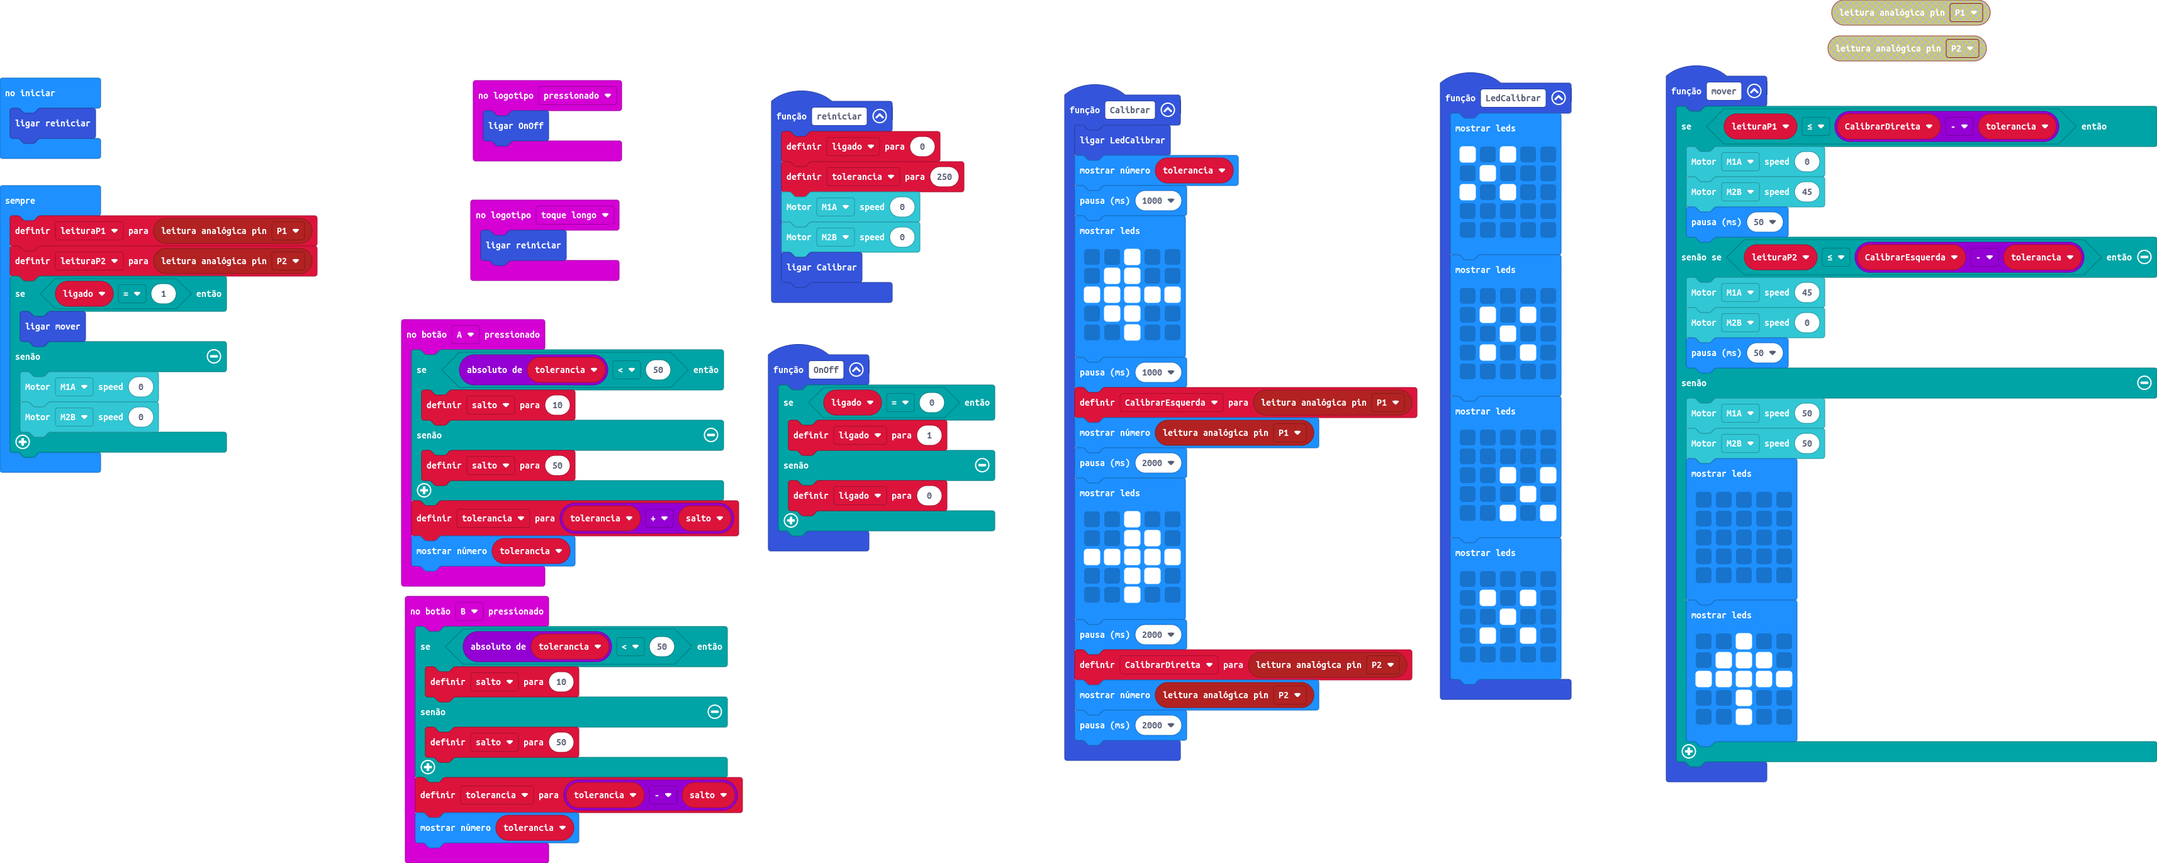
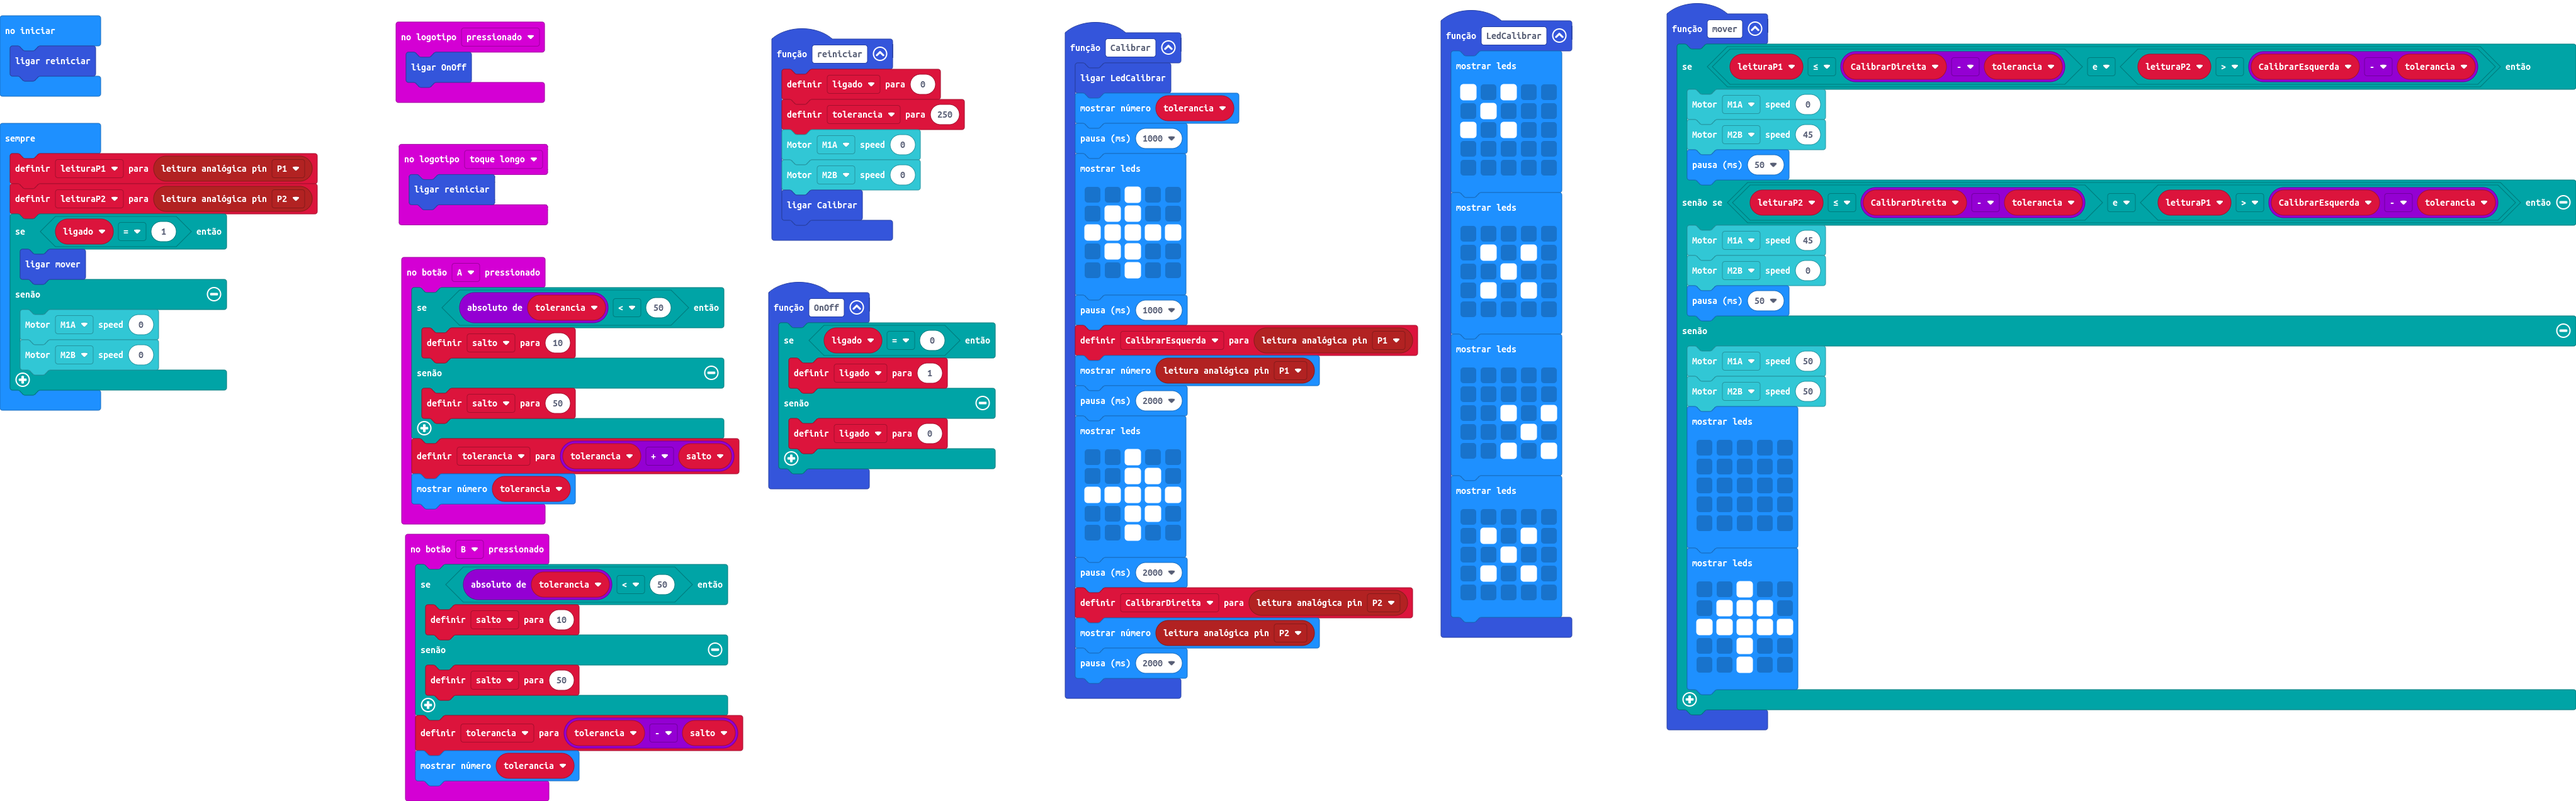
Atualizar 'main.blocks, main.ts'

diff --git a/main.ts b/main.ts
@@ -80,11 +80,11 @@ input.onButtonPressed(Button.B, function () {
     basic.showNumber(tolerancia)
 })
 function mover () {
-    if (leituraP1 <= CalibrarDireita - tolerancia) {
+    if (leituraP1 <= CalibrarDireita - tolerancia && leituraP2 > CalibrarEsquerda - tolerancia) {
         robotbit.MotorRun(robotbit.Motors.M1A, 0)
         robotbit.MotorRun(robotbit.Motors.M2B, 45)
         basic.pause(50)
-    } else if (leituraP2 <= CalibrarEsquerda - tolerancia) {
+    } else if (leituraP2 <= CalibrarDireita - tolerancia && leituraP1 > CalibrarEsquerda - tolerancia) {
         robotbit.MotorRun(robotbit.Motors.M1A, 45)
         robotbit.MotorRun(robotbit.Motors.M2B, 0)
         basic.pause(50)
